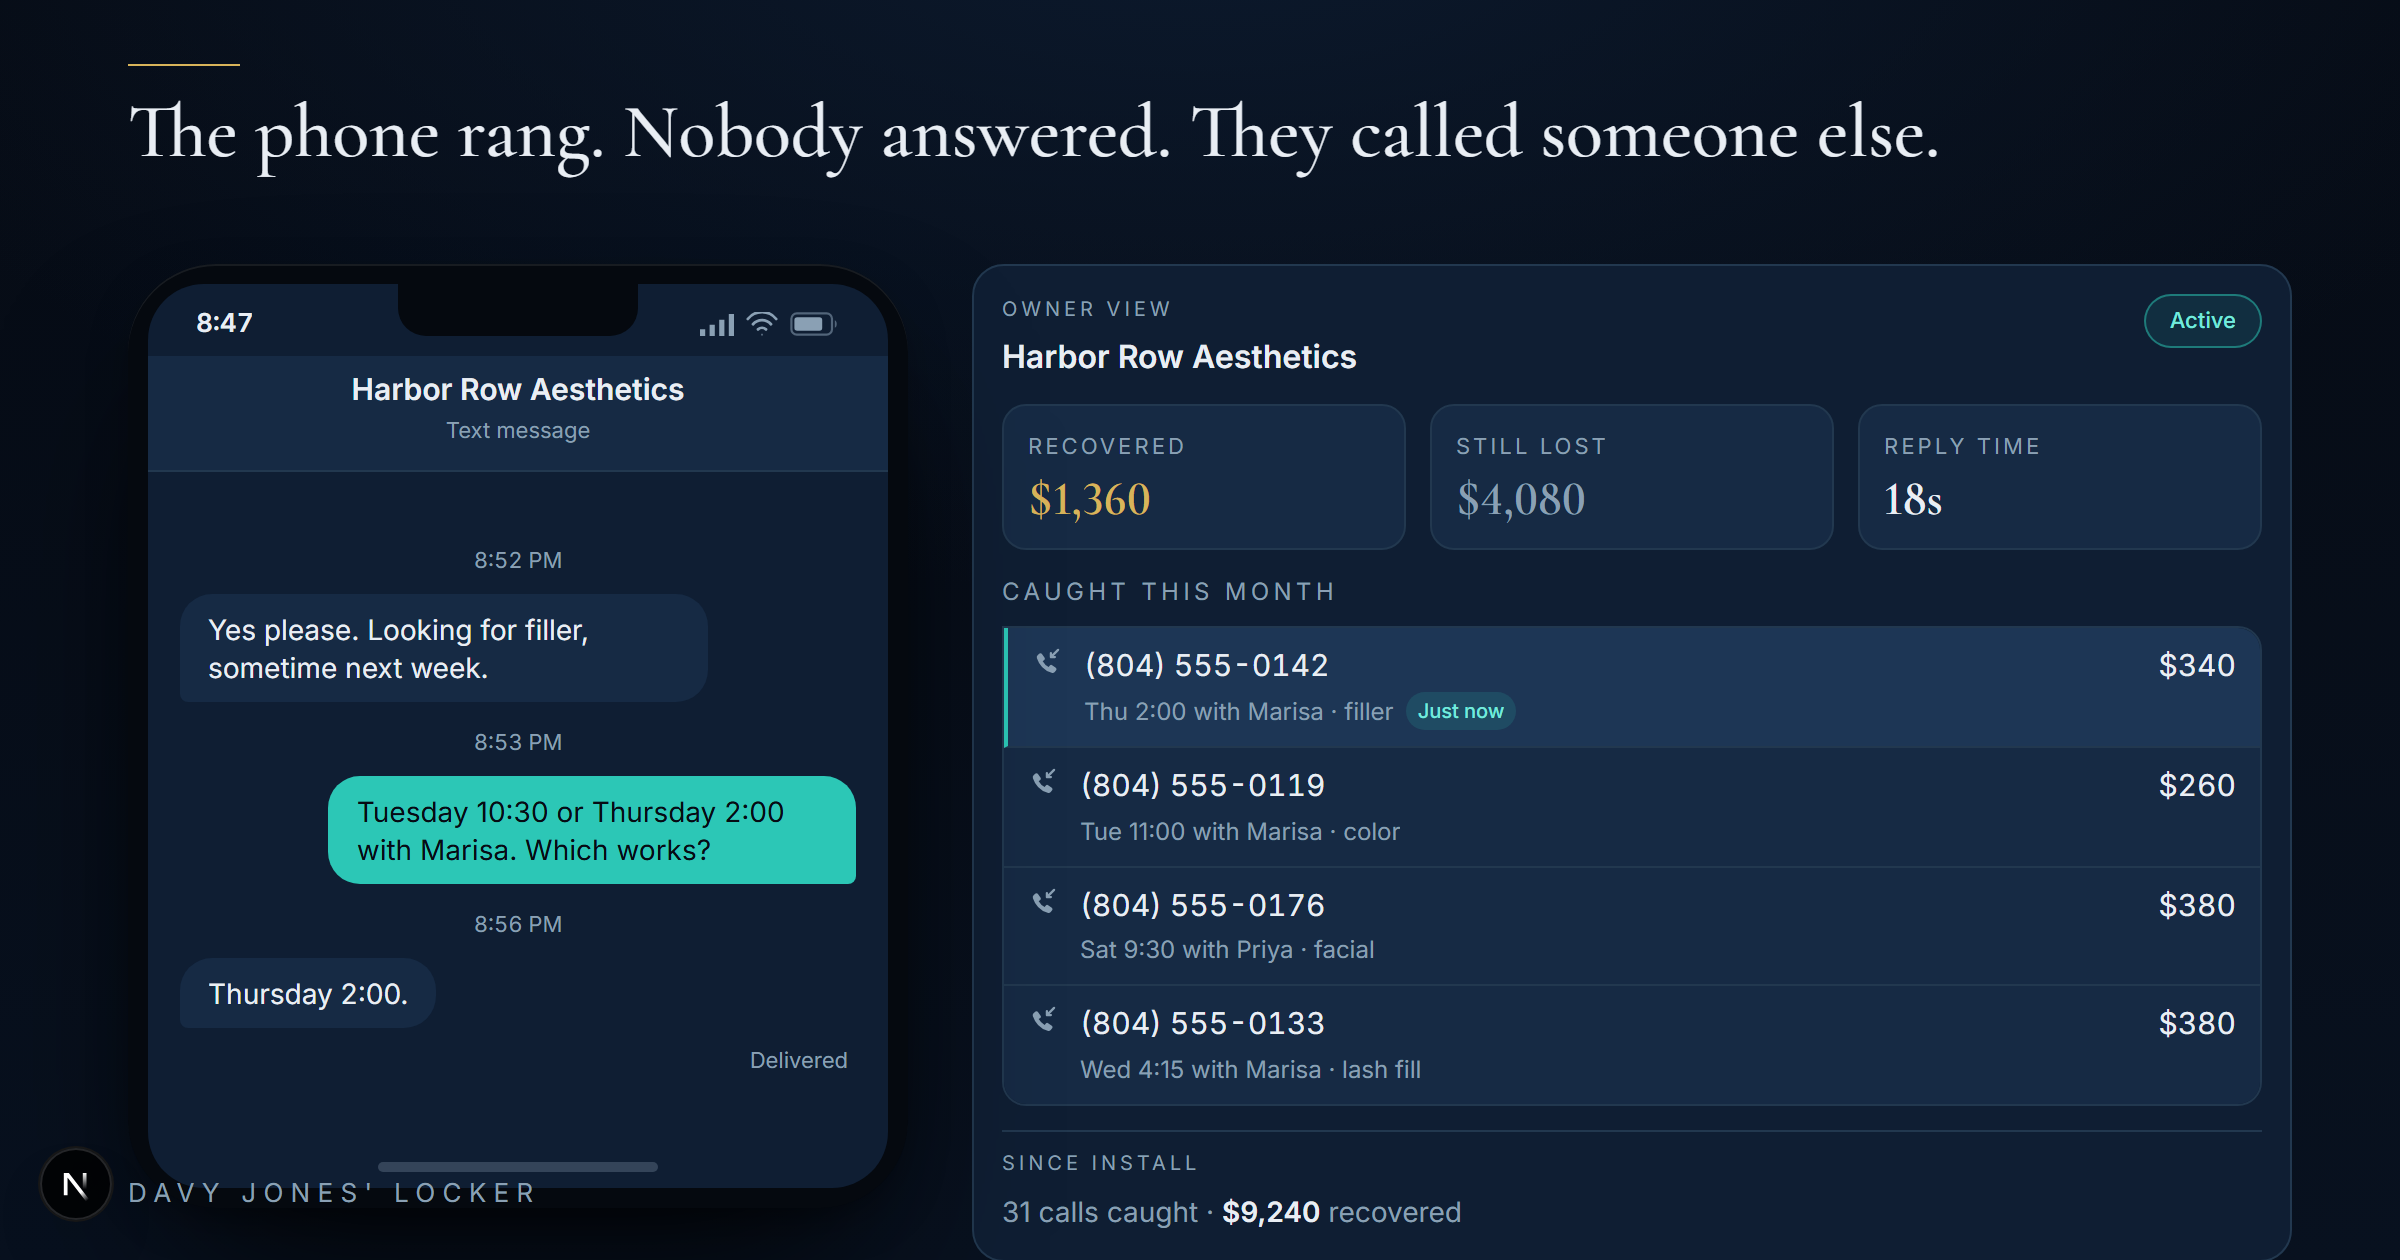
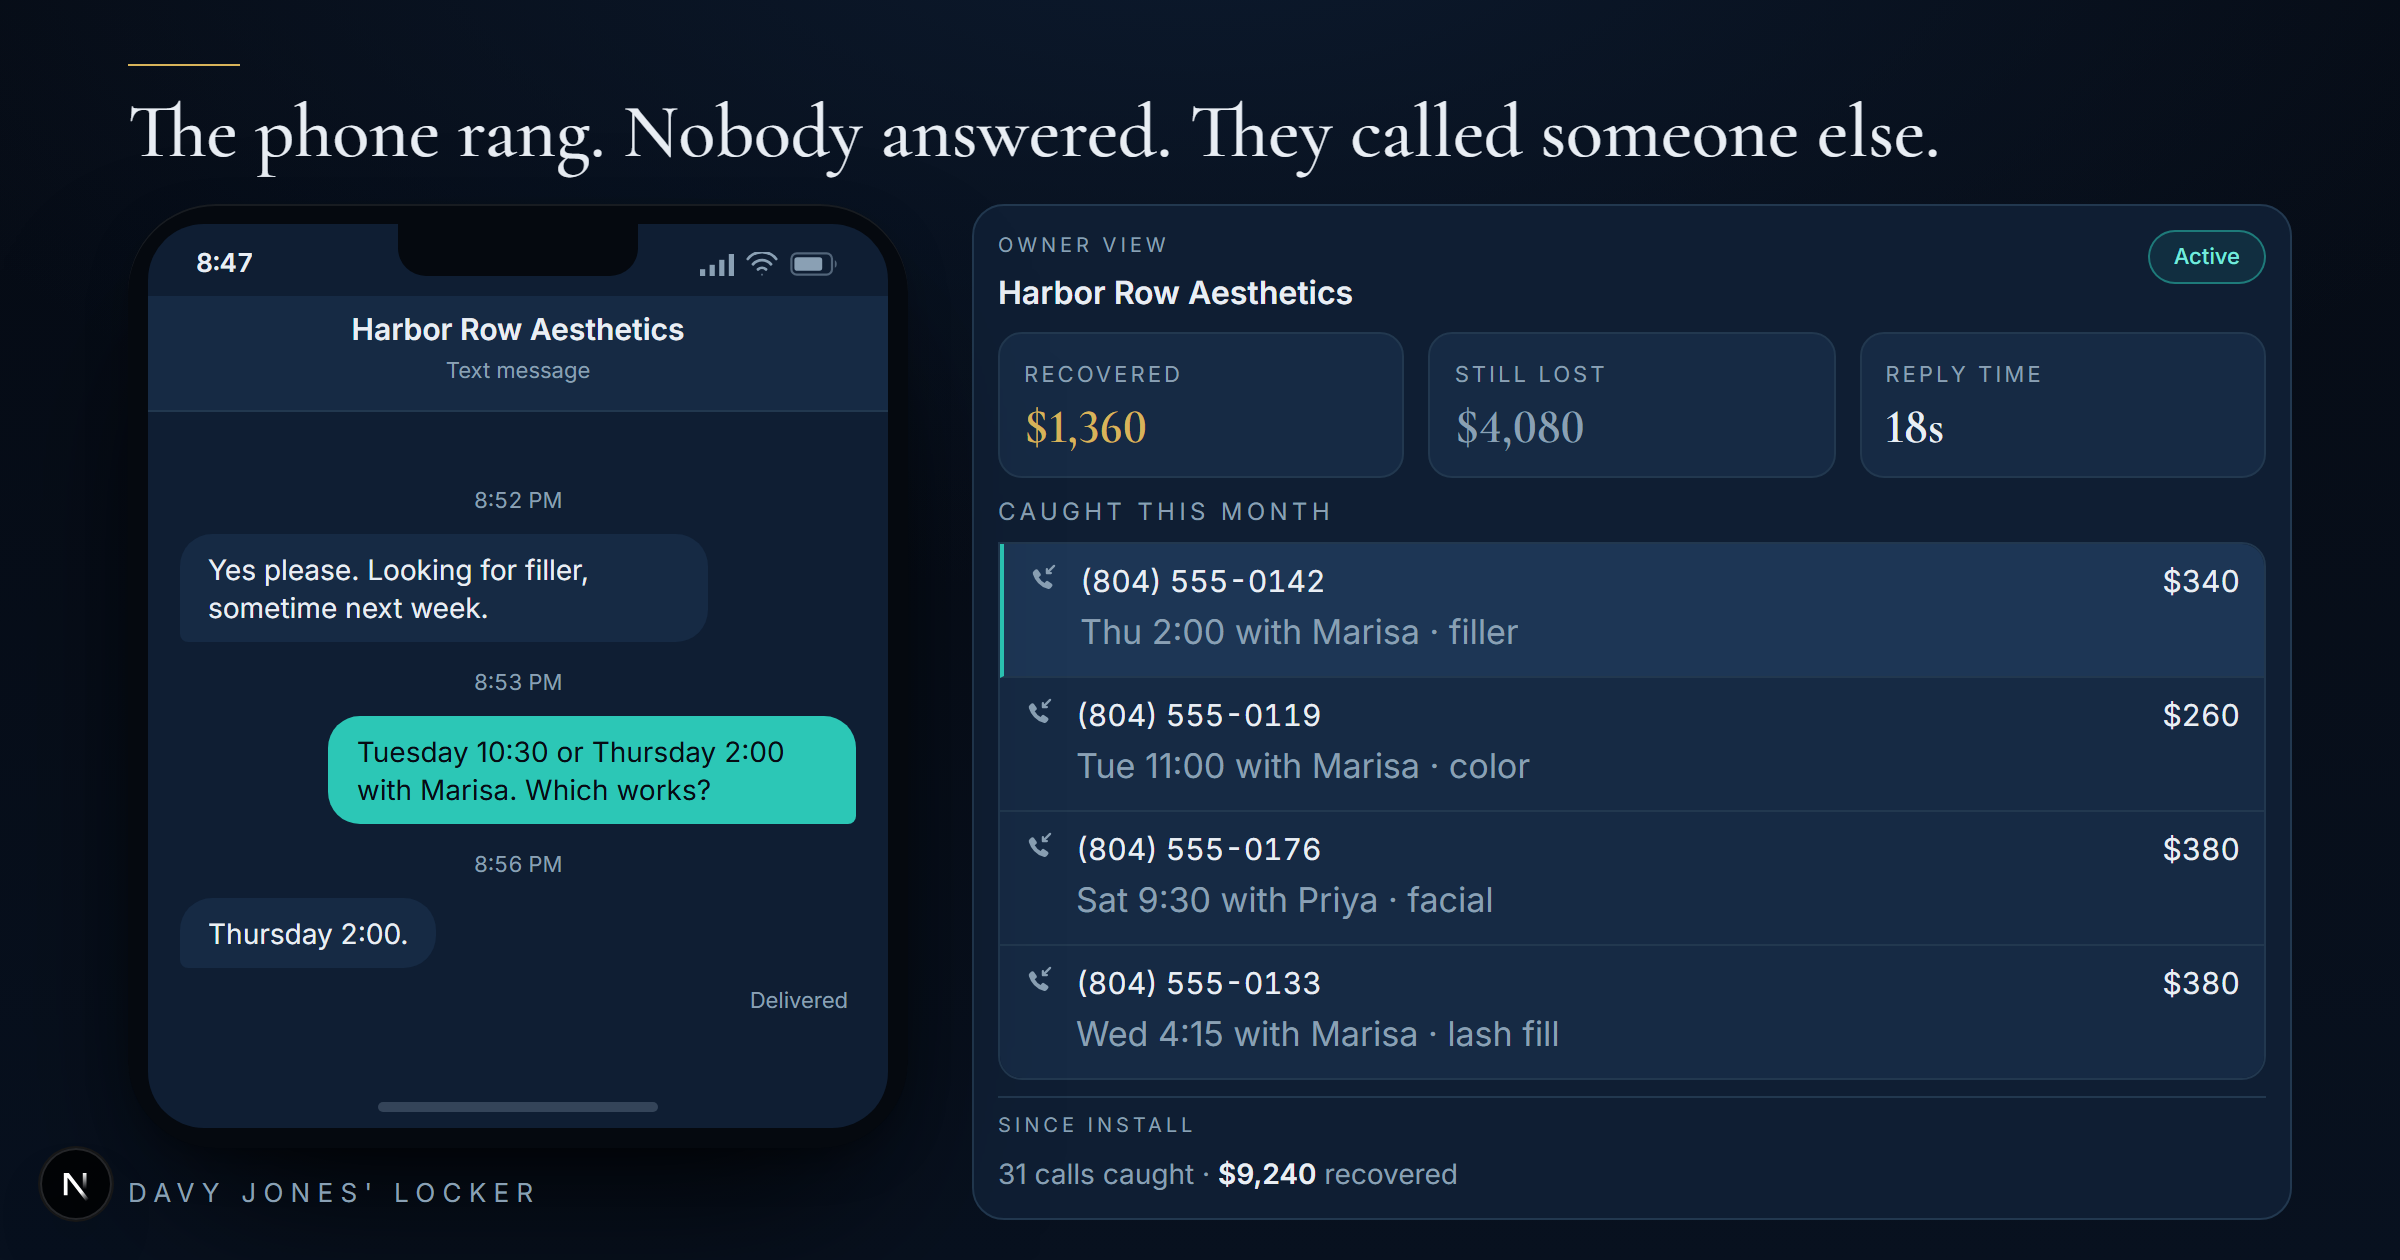
change 8: per-frame gold rule, OG legibility

diff --git a/components/Ledger.tsx b/components/Ledger.tsx
@@ -24,7 +24,7 @@ export default function Ledger({
   const [row0, ...rest] = preset.caught;
   const L = COPY.ledger;
 
-  const pad = compact ? "p-3.5" : "p-6";
+  const pad = compact ? "p-3" : "p-6";
   const tileValue = `mt-1.5 font-display font-semibold leading-none lining-nums ${
     compact ? "text-[24px]" : "text-[26px] min-[500px]:text-[30px]"
   }`;
@@ -52,7 +52,7 @@ export default function Ledger({
       {/* Three metric tiles */}
       <div
         data-money
-        className={`grid gap-3 grid-cols-[repeat(auto-fit,minmax(150px,1fr))] ${compact ? "mt-3" : "mt-6"}`}
+        className={`grid gap-3 grid-cols-[repeat(auto-fit,minmax(150px,1fr))] ${compact ? "mt-2" : "mt-6"}`}
       >
         <div className={`rounded-xl border border-line bg-surface-2 ${compact ? "p-3" : "p-4"}`}>
           <p className="text-[11px] uppercase tracking-[0.14em] text-muted">{L.recoveredLabel}</p>
@@ -100,7 +100,7 @@ export default function Ledger({
       </div>
 
       {/* Caught list */}
-      <p className={`text-[12px] uppercase tracking-[0.18em] text-muted ${compact ? "mt-3" : "mt-6"}`}>
+      <p className={`text-[12px] uppercase tracking-[0.18em] text-muted ${compact ? "mt-2" : "mt-6"}`}>
         {L.caughtLabel}
       </p>
       {/* rounded-tl-none: row [0]'s flush teal rule needs a square corner to
@@ -108,7 +108,7 @@ export default function Ledger({
           corner (never a bare `rounded-xl` plus an override) so the result
           doesn't depend on Tailwind's utility ordering in the stylesheet. */}
       <div
-        className={`overflow-hidden rounded-tl-none rounded-tr-xl rounded-br-xl rounded-bl-xl border border-line ${compact ? "mt-2" : "mt-3"}`}
+        className={`overflow-hidden rounded-tl-none rounded-tr-xl rounded-br-xl rounded-bl-xl border border-line ${compact ? "mt-1.5" : "mt-3"}`}
       >
         <div className="divide-y divide-line">
           <CaughtRow index={0} entry={row0} compact={compact} />
@@ -125,7 +125,7 @@ export default function Ledger({
           empty space. Renders in both variants — the OG composite wants it
           too. The dollar figure is ink, deliberately not gold: gold stays
           reserved for the one recovered figure above (gates 31/38). */}
-      <div className={`border-t border-line ${compact ? "mt-3 pt-2" : "mt-5 pt-4"}`}>
+      <div className={`border-t border-line ${compact ? "mt-2 pt-1.5" : "mt-5 pt-4"}`}>
         <p className="text-[10px] uppercase tracking-[0.2em] text-muted">{L.sinceLabel}</p>
         <p data-since-strip className={`mt-1.5 text-muted ${compact ? "text-[14px]" : "text-[13px]"}`}>
           <span data-since-calls>{preset.sinceCalls}</span> calls caught ·{" "}
@@ -165,9 +165,14 @@ function CaughtRow({
         >
           {entry.number}
         </div>
+        {/* change 8: at 500px the caught rows read as four anonymous numbers
+            unless the detail line itself is legible, so compact carries a
+            ~40% larger size here than the interactive panel's 12px. The
+            "Just now" tag is dropped in compact — decoration competing with
+            that detail line for the same sliver of space loses. */}
         <div className="mt-0.5 flex min-w-0 items-center gap-1.5">
-          <span className="truncate text-[12px] text-muted">{entry.detail}</span>
-          {isFirst && (
+          <span className={`truncate text-muted ${compact ? "text-[17px]" : "text-[12px]"}`}>{entry.detail}</span>
+          {isFirst && !compact && (
             <span className="shrink-0 rounded-full bg-teal/15 px-1.5 py-0.5 text-[10px] font-medium text-teal-bright">
               {COPY.ledger.justNow}
             </span>

diff --git a/components/Demo.tsx b/components/Demo.tsx
@@ -423,18 +423,20 @@ export default function Demo({ initialPresetId }: { initialPresetId: string }) {
 
       {/* Bottom band — math + CTA bound into one closing unit. bg-surface is
           one step lighter than the page ground (abyss), matching the
-          elevation ladder in globals.css. Gold stays reserved for the one
-          recovered figure on the owner panel (gates 31/38) — these numbers
-          are ink, same tier as the since-install strip's dollar figure. */}
-      <div className="mt-14 border-t border-line bg-surface min-[900px]:mt-16">
+          elevation ladder in globals.css. Gold is per-frame, not per-page
+          (change 8): this band is its own frame, and it gets its own gold
+          moment for the money/count that closes the pitch — gate 38 asserts
+          this frame's gold and the owner panel's gold never share a 900px
+          viewport window, rather than counting gold page-wide. */}
+      <div data-bottom-band className="mt-14 border-t border-line bg-surface min-[900px]:mt-105">
         <div className="flex flex-col gap-7 py-8 min-[1100px]:flex-row min-[1100px]:items-center min-[1100px]:justify-between min-[1100px]:gap-12 min-[1100px]:py-10">
           <p data-math className="max-w-lg text-[17px] leading-relaxed text-ink">
             {COPY.mathLead}{" "}
-            <span className="font-display text-[1.4em] font-semibold text-ink lining-nums">
+            <span data-math-numeral className="font-display text-[1.4em] font-semibold text-gold lining-nums">
               {preset.missedPerMonth}
             </span>{" "}
             {COPY.mathMid}{" "}
-            <span className="font-display text-[1.4em] font-semibold text-ink lining-nums">
+            <span data-math-numeral className="font-display text-[1.4em] font-semibold text-gold lining-nums">
               ${preset.ticket}
             </span>{" "}
             {COPY.mathTail}

diff --git a/app/og/page.tsx b/app/og/page.tsx
@@ -30,7 +30,7 @@ export default function OgFrame() {
       </div>
 
       {/* Devices row */}
-      <div className="absolute left-16 top-[132px] flex items-start gap-8">
+      <div className="absolute left-16 top-[102px] flex items-start gap-8">
         <Phone preset={settledTail} screenMinHeight={452} hideCallCard />
         <div className="w-[660px]">
           <Ledger preset={base} compact />
